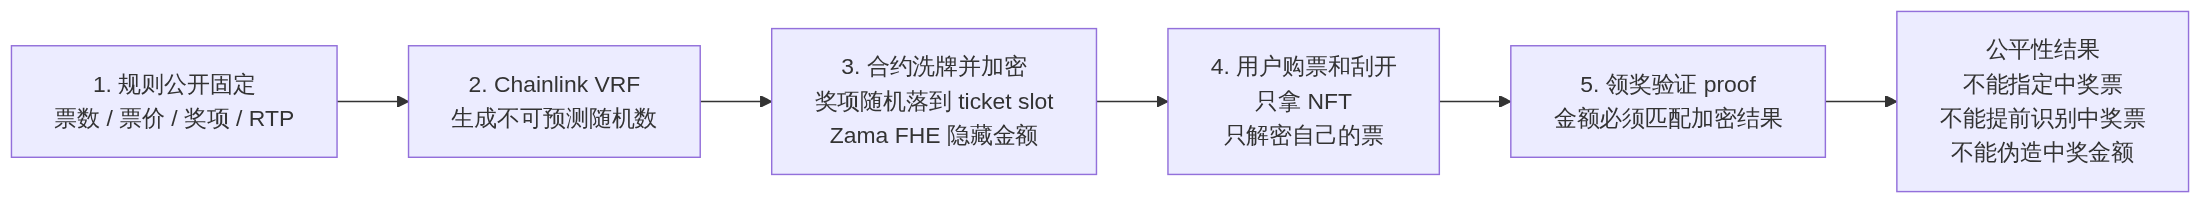
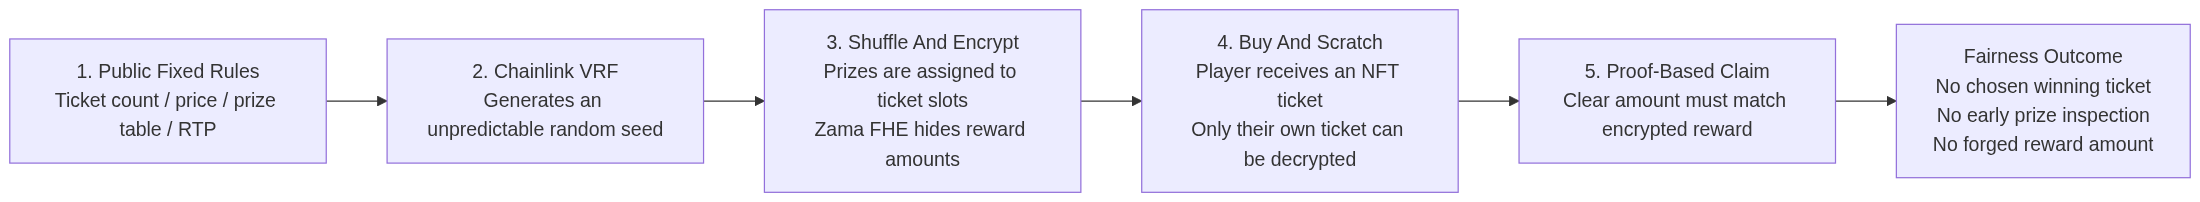
Update LuckyScratch fairness flowchart and documentation
- Replace Chinese titles and descriptions with English equivalents in the flowchart.
- Adjust SVG dimensions for better display.
- Update the presentation flowchart markdown to reflect changes in the flowchart content and structure.
- Remove unnecessary Chinese text and provide a clearer English explanation of the flowchart steps.

diff --git a/doc/presentation-flowchart.md b/doc/presentation-flowchart.md
@@ -20,10 +20,3 @@ flowchart LR
 
   rules --> vrf --> shuffle --> play --> claim --> result
 ```
-
-演讲重点：
-
-1. **先定规则，再随机洗牌**：奖项数量、票数、票价和 RTP 在建池时确定，VRF 只负责打乱位置。
-2. **购票时不再抽随机数**：用户买到的是已经预分配好的 ticket slot，避免后续人为干预。
-3. **结果加密上链**：Zama FHE 让链上数据可验证但不可提前读取，用户无法判断哪张票中奖。
-4. **领奖必须验 proof**：claim 时提交的明文金额必须通过链上 proof 校验，不能伪造中奖金额。
